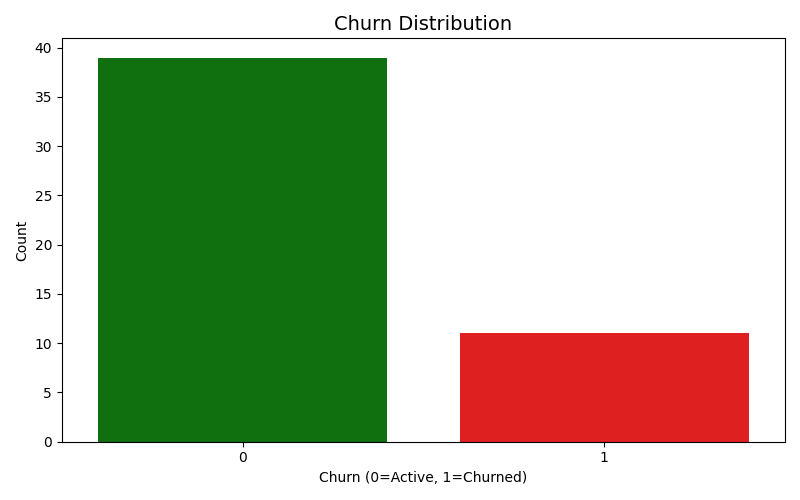
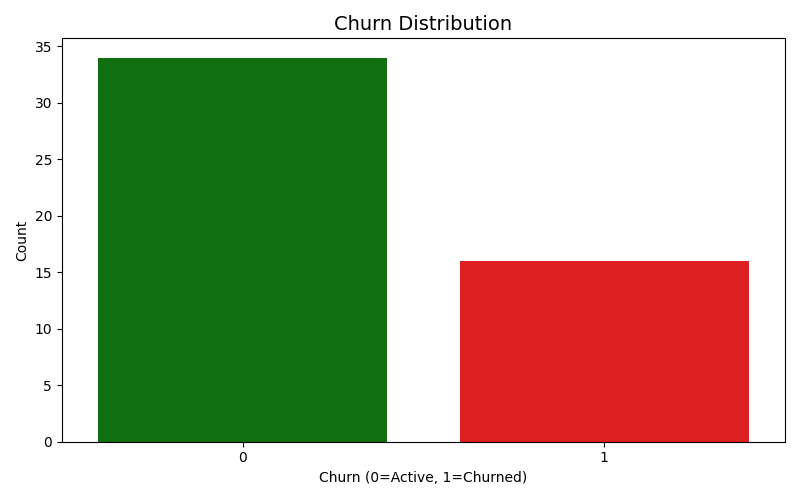
updated model performance and dataset

diff --git a/app.py b/app.py
@@ -107,7 +107,7 @@ def normalize_reason_label(text):
     normalized = text.strip().lower()
     mappings = {
         'Financial issues': ['financial issues', 'financial', 'payment', 'pay', 'fee', 'emi', 'installment', 'finance'],
-        'Lack of interest': ['lack of interest', 'not interested', 'no interest', 'lost interest', 'not keen', 'disinterested', 'no longer interested'],
+        'Lack of interest': ['no confirmation', 'lack of interest', 'not interested', 'no interest', 'lost interest', 'not keen', 'disinterested', 'no longer interested'],
         'Joined another institution': ['joined another', 'joined other', 'admission elsewhere', 'admitted', 'migrated to', 'joined institute', 'joined company', 'enrolled elsewhere'],
         'Communication gaps': ['communication gaps', 'no response', 'no pickup', 'unreachable', 'voicemail', 'did not pick', 'not reachable', 'no answer', 'call dropped', 'busy', 'no contact', 'not responding'],
         'Other': ['other', 'unknown', 'unclear']
@@ -326,7 +326,7 @@ def extract_reason_and_recommendation(candidate_info, remarks_text, feedback_tex
     if any(k in text for k in ['pay', 'payment', 'fee', 'installment', 'emi', 'finance', 'financial']):
          reason = 'Financial issues: Candidate is flagged for high churn risk due to fee, outstanding payment, or EMI installment concerns mentioned in call log details.'
          label_key = 'Financial issues'
-    elif any(k in text for k in ['not interested', 'no interest', 'lack of interest', 'lost interest', 'not keen', 'disinterested', 'no longer interested']):
+    elif any(k in text for k in ['no confirmation', 'not interested', 'no interest', 'lack of interest', 'lost interest', 'not keen', 'disinterested', 'no longer interested']):
          reason = 'Lack of interest: Candidate exhibits disinterest, program mismatch, or lack of direct engagement with onboarding tasks.'
          label_key = 'Lack of interest'
     elif any(k in text for k in ['joined another', 'joined other', 'admission elsewhere', 'admitted', 'migrated to', 'joined institute', 'joined company', 'enrolled elsewhere']):
@@ -681,7 +681,7 @@ def preprocess(candidate_profile, call_log, executive_profile):
     )
     df_candidate['Payment_Ratio'] = df_candidate['Payment_Ratio'].replace([np.inf, -np.inf], 0).fillna(0)
     df_candidate['Outstanding_Amount'] = df_candidate['Total_Amount'] - df_candidate['Paid_amount']
-    df_candidate['Zero_Payment'] = (df_candidate['Paid_amount'] == 0).astype(int)
+    df_candidate['Booking_fee'] = (df_candidate['Paid_amount'] == 2000).astype(int)
     df_candidate['Negative_Feedback'] = df_candidate['Feedback'].astype(str).str.strip().str.lower().eq('negative').astype(int)
 
     # ── Call Log Processing ──────────────────────
@@ -715,7 +715,8 @@ def preprocess(candidate_profile, call_log, executive_profile):
         sub = call_log_proc[call_log_proc['Candidate_ID'] == cid]['Call_Remarks'].astype(str).str.lower()
         remark_list.append({
             'Candidate_ID': cid,
-            'has_interest':            int(sub.str.contains('interested|keen|enthusiastic|confirmed|enrolled').any()),
+            'has_interest':            int(sub.str.contains('keen|enthusiastic|confirmed|enrolled').any()),
+            'has_no_interest':         int(sub.str.contains('no confirmation|not interested|lack of interest|not enrolled').any()),
             'has_no_response':         int(sub.str.contains('no response|no pickup|unreachable|voicemail').any()),
             'has_payment_discussion':  int(sub.str.contains('payment|fee|emi|scholarship').any()),
             'has_technical_discussion':int(sub.str.contains('technical|syllabus|project|mentor').any()),
@@ -1984,14 +1985,14 @@ def page_model_performance(df, model_data):
     with r1:
         st.markdown("""
         <div class="candidate-card">
-            <div style="font-size:13px; font-weight:700; color:#f87171; margin-bottom:12px;"><i class="fa-solid fa-circle-xmark"></i> Zero Payment</div>
+            <div style="font-size:13px; font-weight:700; color:#f87171; margin-bottom:12px;"><i class="fa-solid fa-circle-xmark"></i> No interest </div>
         """, unsafe_allow_html=True)
-        zero_pay = (churned_df['Paid_amount'] == 0).sum()
-        pct = zero_pay / len(churned_df) * 100 if len(churned_df) > 0 else 0
+        no_int = churned_df.get('has_no_interest', pd.Series([0]*len(churned_df))).sum() if 'has_no_interest' in churned_df.columns else 0
+        pct = no_int / len(churned_df) * 100 if len(churned_df) > 0 else 0
         st.markdown(f"""
-            <div style="font-size:32px; font-weight:800; color:#f87171;">{zero_pay}</div>
-            <div style="color:#64748b; font-size:13px;">churned with ₹0 paid ({pct:.0f}%)</div>
-            <div style="margin-top:10px; font-size:12px; color:#475569;">Most churned candidates made no payment at all — a strong churn signal.</div>
+            <div style="font-size:32px; font-weight:800; color:#f87171;">{int(no_int)}</div>
+            <div style="color:#64748b; font-size:13px;">Churned with no longer interest ({pct:.0f}%)</div>
+            <div style="margin-top:10px; font-size:12px; color:#475569;">Churned candidates made initial payment - but no longer interested, they may have attended or not attended the induction session.</div>
         </div>""", unsafe_allow_html=True)
 
     with r2:

diff --git a/model.py b/model.py
@@ -249,11 +249,11 @@ df_candidate['Payment_Ratio'] = df_candidate['Payment_Ratio'].fillna(0)
 # Handle infinite values
 df_candidate['Payment_Ratio'] = df_candidate['Payment_Ratio'].replace([np.inf, -np.inf], 0)
 
-df_candidate['Zero_Payment'] = (df_candidate['Paid_amount'] == 0).astype(int)
+df_candidate['Booking_fee'] = (df_candidate['Paid_amount'] == 2000).astype(int)
 df_candidate['Negative_Feedback'] = df_candidate['Feedback'].astype(str).str.strip().str.lower().eq('negative').astype(int)
 
 # Interaction feature: High-risk indicator (Zero Payment AND Negative Feedback)
-df_candidate['High_Risk_Indicator'] = (df_candidate['Zero_Payment'] * df_candidate['Negative_Feedback']).astype(int)
+df_candidate['High_Risk_Indicator'] = (df_candidate['Booking_fee'] * df_candidate['Negative_Feedback']).astype(int)
 
 print(f"   Payment Ratio Range: {df_candidate['Payment_Ratio'].min():.2f} - {df_candidate['Payment_Ratio'].max():.2f}")
 
@@ -310,7 +310,8 @@ def extract_remark_features(remarks_series):
         # Convert to lowercase string
         remarks_str = remarks_series.astype(str).str.lower()
         
-        features['has_interest'] = remarks_str.str.contains('interested|keen|enthusiastic|confirmed|enrolled', na=False).astype(int)
+        features['has_interest'] = remarks_str.str.contains('keen|enthusiastic|confirmed|enrolled', na=False).astype(int)
+        features['has_no_interest'] = remarks_str.str.contains('not interested|lack of interest|no confirmation|not enrolled', na=False).astype(int)
         features['has_no_response'] = remarks_str.str.contains('no response|no pickup|unreachable|voicemail', na=False).astype(int)
         features['has_payment_discussion'] = remarks_str.str.contains('payment|fee|emi|scholarship', na=False).astype(int)
         features['has_technical_discussion'] = remarks_str.str.contains('technical|syllabus|project|mentor', na=False).astype(int)
@@ -385,7 +386,7 @@ numerical_features = ['Experience', 'Career_gap', 'Total_Amount', 'Paid_amount',
                       'Total_Calls', 'Unique_Executives', 'Total_Call_Duration', 
                       'Avg_Call_Duration', 'Max_Call_Duration', 'Min_Call_Duration',
                       'Call_Frequency', 'Executive_Experience',
-                      'has_interest', 'has_no_response', 'has_payment_discussion', 'has_technical_discussion']
+                      'has_interest', 'has_no_interest', 'has_no_response', 'has_payment_discussion', 'has_technical_discussion']
 
 # Filter to only existing columns
 categorical_features = [col for col in categorical_features if col in df.columns]
@@ -1191,7 +1192,7 @@ def normalize_reason_label(text):
     normalized = text.strip().lower()
     mappings = {
         'Financial issues': ['financial issues', 'financial', 'payment', 'pay', 'fee', 'emi', 'installment', 'finance'],
-        'Lack of interest': ['lack of interest', 'not interested', 'no interest', 'lost interest', 'not keen', 'disinterested', 'no longer interested'],
+        'Lack of interest': ['no confirmation', 'lack of interest', 'not interested', 'no interest', 'lost interest', 'not keen', 'disinterested', 'no longer interested'],
         'Joined another institution': ['joined another', 'joined other', 'admission elsewhere', 'admitted', 'migrated to', 'joined institute', 'joined company', 'enrolled elsewhere'],
         'Communication gaps': ['communication gaps', 'no response', 'no pickup', 'unreachable', 'voicemail', 'did not pick', 'not reachable', 'no answer', 'call dropped', 'busy', 'no contact', 'not responding'],
         'Other': ['other', 'unknown', 'unclear']
@@ -1442,7 +1443,7 @@ def extract_reason_and_recommendation(candidate_info, remarks_text=None, feedbac
     if any(k in text for k in ['pay', 'payment', 'fee', 'installment', 'emi', 'finance', 'financial']):
          reason = 'Financial issues: Candidate is flagged for high churn risk due to fee, outstanding payment, or EMI installment concerns mentioned in call log details.'
          label_key = 'Financial issues'
-    elif any(k in text for k in ['not interested', 'no interest', 'lack of interest', 'lost interest', 'not keen', 'disinterested', 'no longer interested']):
+    elif any(k in text for k in ['no confirmation', 'not interested', 'no interest', 'lack of interest', 'lost interest', 'not keen', 'disinterested', 'no longer interested']):
          reason = 'Lack of interest: Candidate exhibits disinterest, program mismatch, or lack of direct engagement with onboarding tasks.'
          label_key = 'Lack of interest'
     elif any(k in text for k in ['joined another', 'joined other', 'admission elsewhere', 'admitted', 'migrated to', 'joined institute', 'joined company', 'enrolled elsewhere']):
@@ -1471,7 +1472,7 @@ churned_candidates['Suggested_Reasons'] = churned_candidates.apply(extract_reaso
 df_with_remarks = churned_candidates[[
     'Candidate_ID', 'Source', 'Education',
     'Current_status', 'Total_Amount', 'Paid_amount', 'Payment_Ratio',
-    'Total_Calls', 'Call_Frequency', 'has_no_response',
+    'Total_Calls', 'Call_Frequency', 'has_no_response', 'has_no_interest',
     'Induction_Session', 'Feedback', 'Churn', 'Suggested_Reasons'
 ]].copy()
 